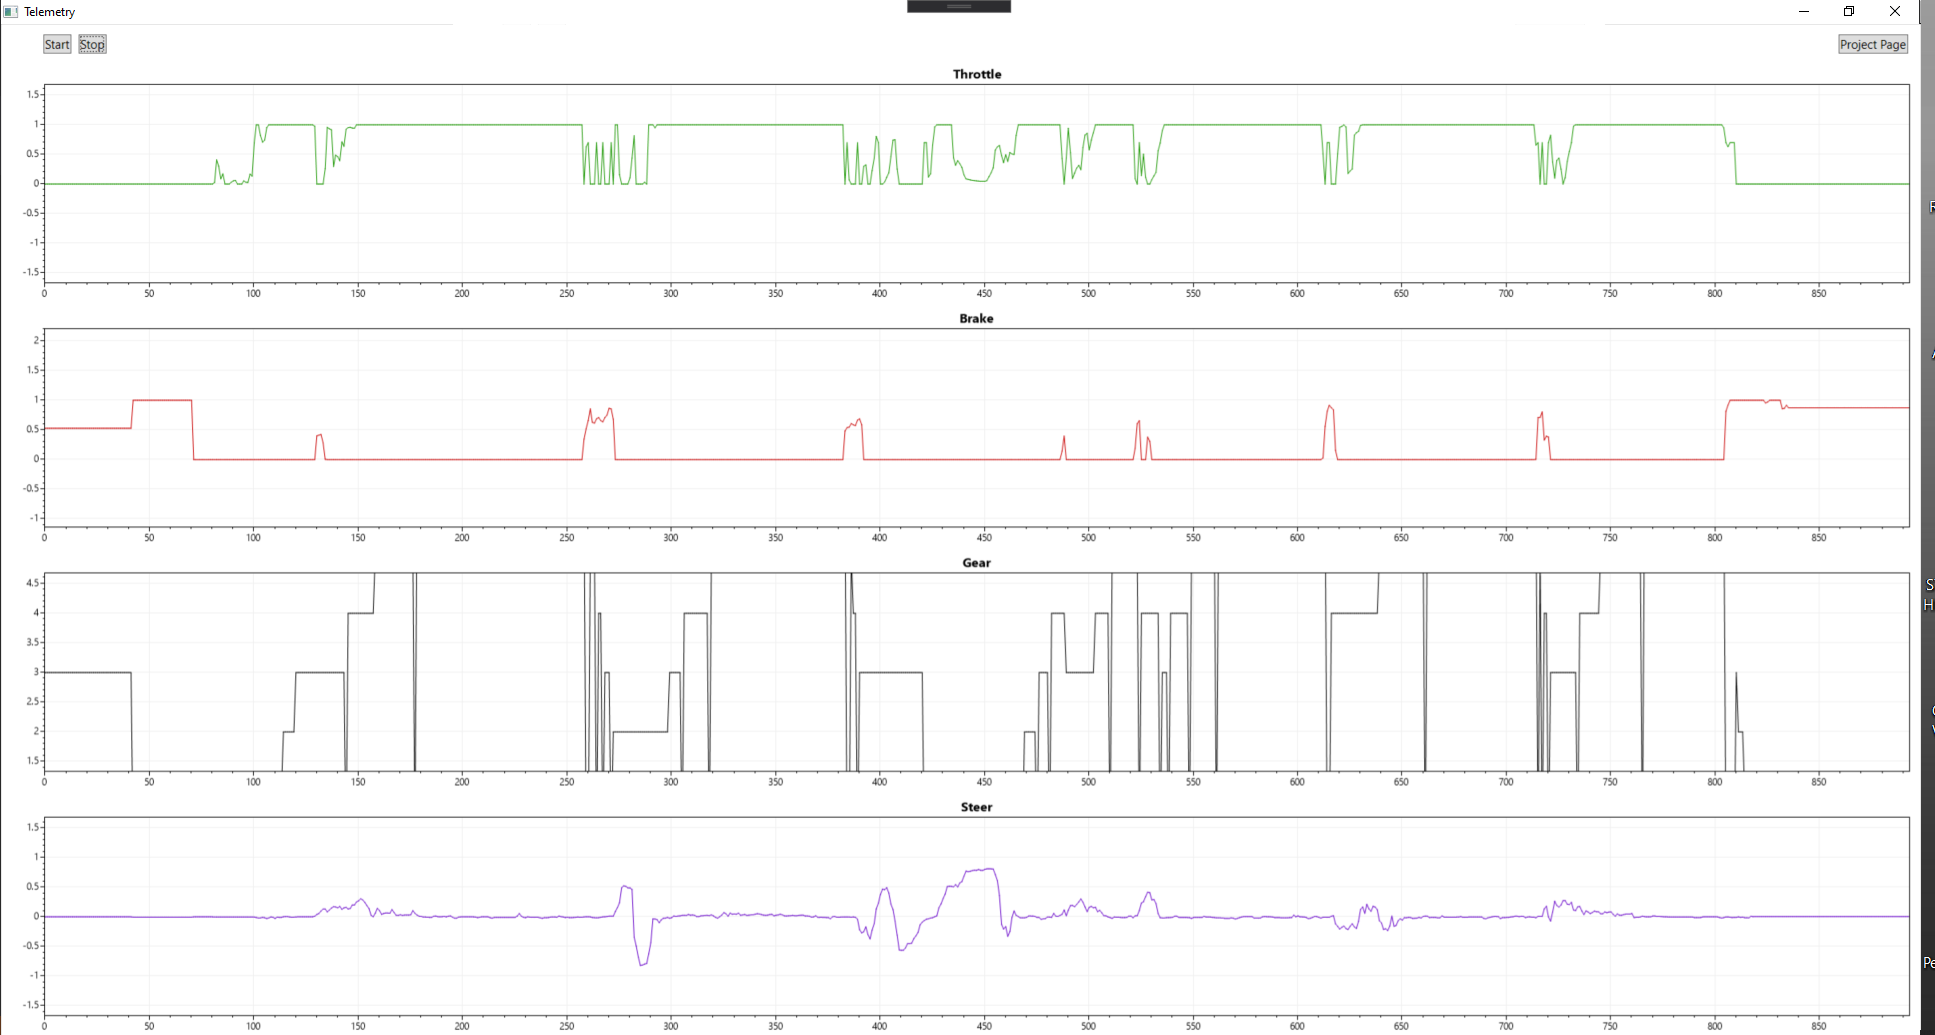
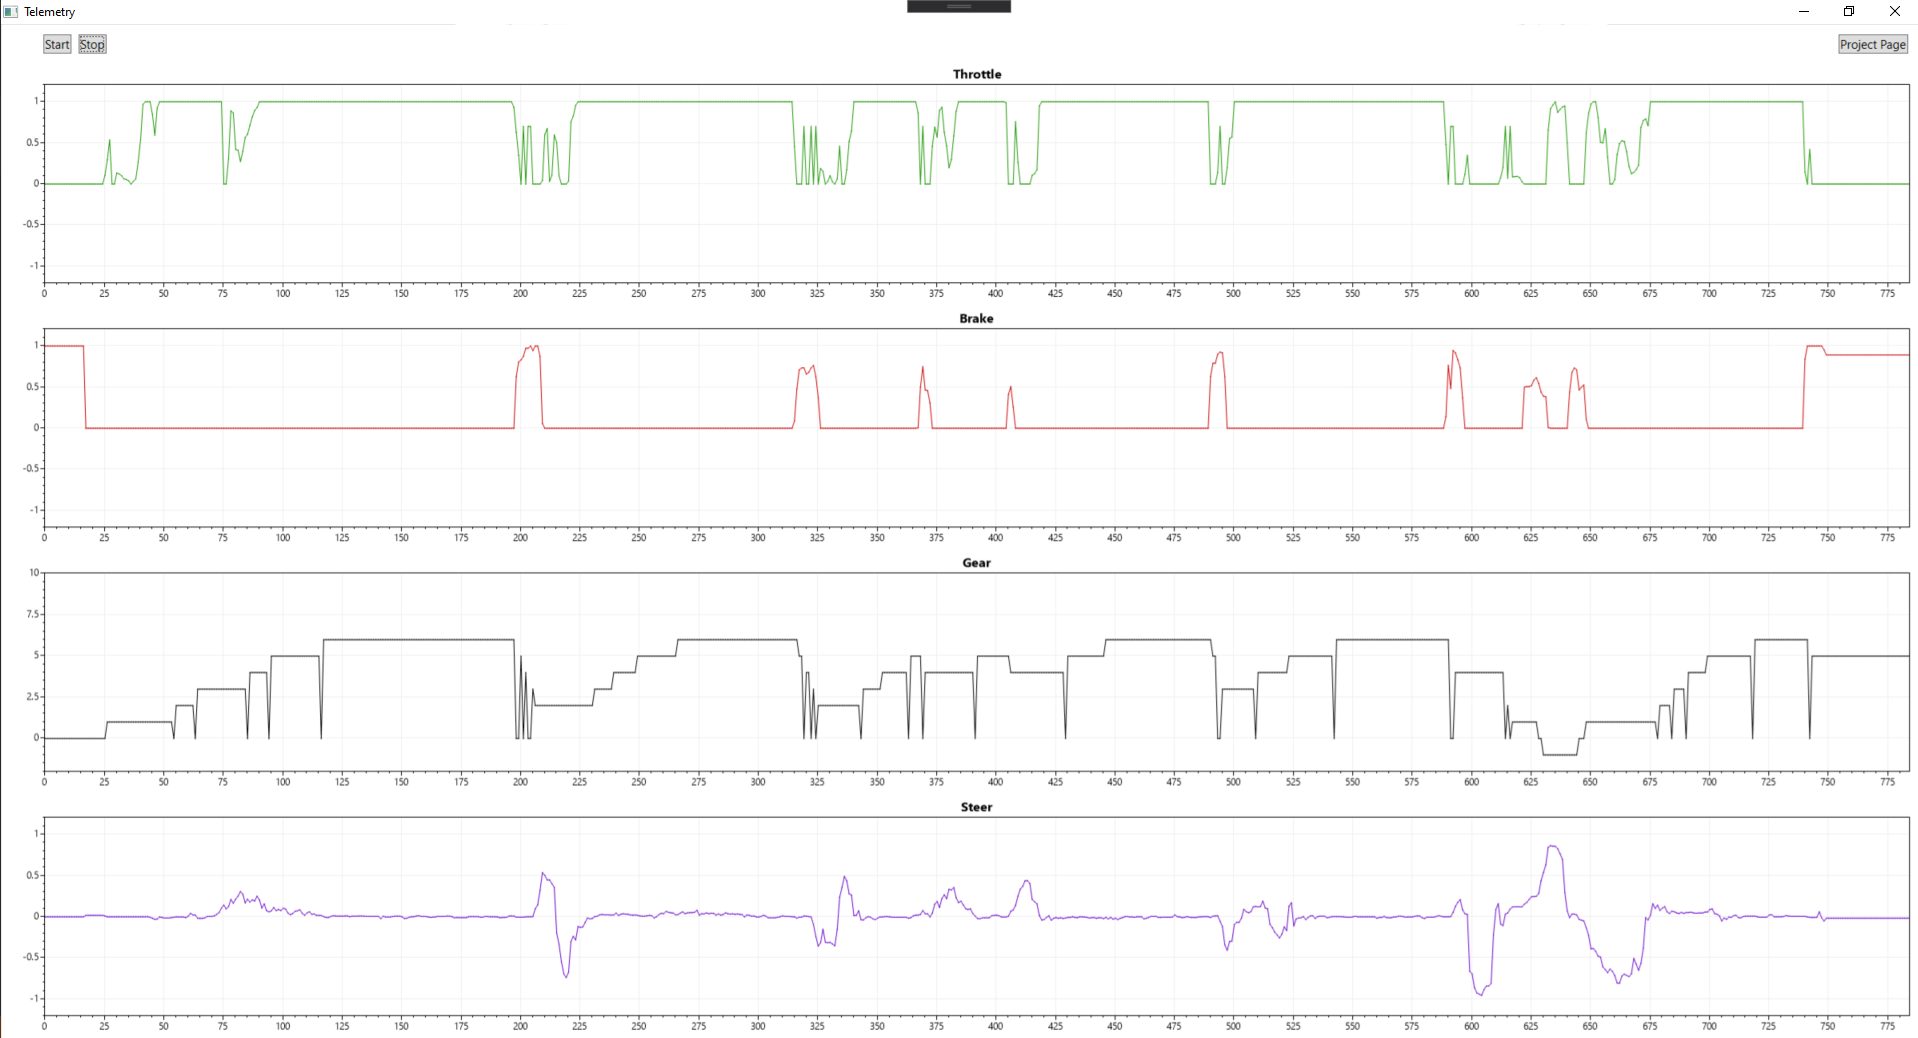
better axes

diff --git a/MainWindow.xaml.cs b/MainWindow.xaml.cs
@@ -81,10 +81,10 @@ namespace AssettoCorsaTelemetryApp
 			sigplotGear.maxRenderIndex = index;
 			sigplotSteer.maxRenderIndex = index;
 
-			plotFrameGas.plt.Axis(0, index - 1);
-			plotFrameBrake.plt.Axis(0, index - 1);
-			plotFrameGear.plt.Axis(0, index - 1);
-			plotFrameSteer.plt.Axis(0, index - 1);
+			plotFrameGas.plt.Axis(0, index - 1, -1.2, 1.2);
+			plotFrameBrake.plt.Axis(0, index - 1, -1.2, 1.2);
+			plotFrameGear.plt.Axis(0, index - 1, -2, 10);
+			plotFrameSteer.plt.Axis(0, index - 1, -1.2, 1.2);
 
 			plotFrameGas.Render();
 			plotFrameBrake.Render();
@@ -100,7 +100,7 @@ namespace AssettoCorsaTelemetryApp
 
 		private void Update(object sender, EventArgs e)
 		{
-			if (index > bufferSize) {
+			if (index >= bufferSize) {
 				index = 0;
 			}
 			PhysicsData.PhysicsMemoryMap x = PhysicsData.GetPhysics();
